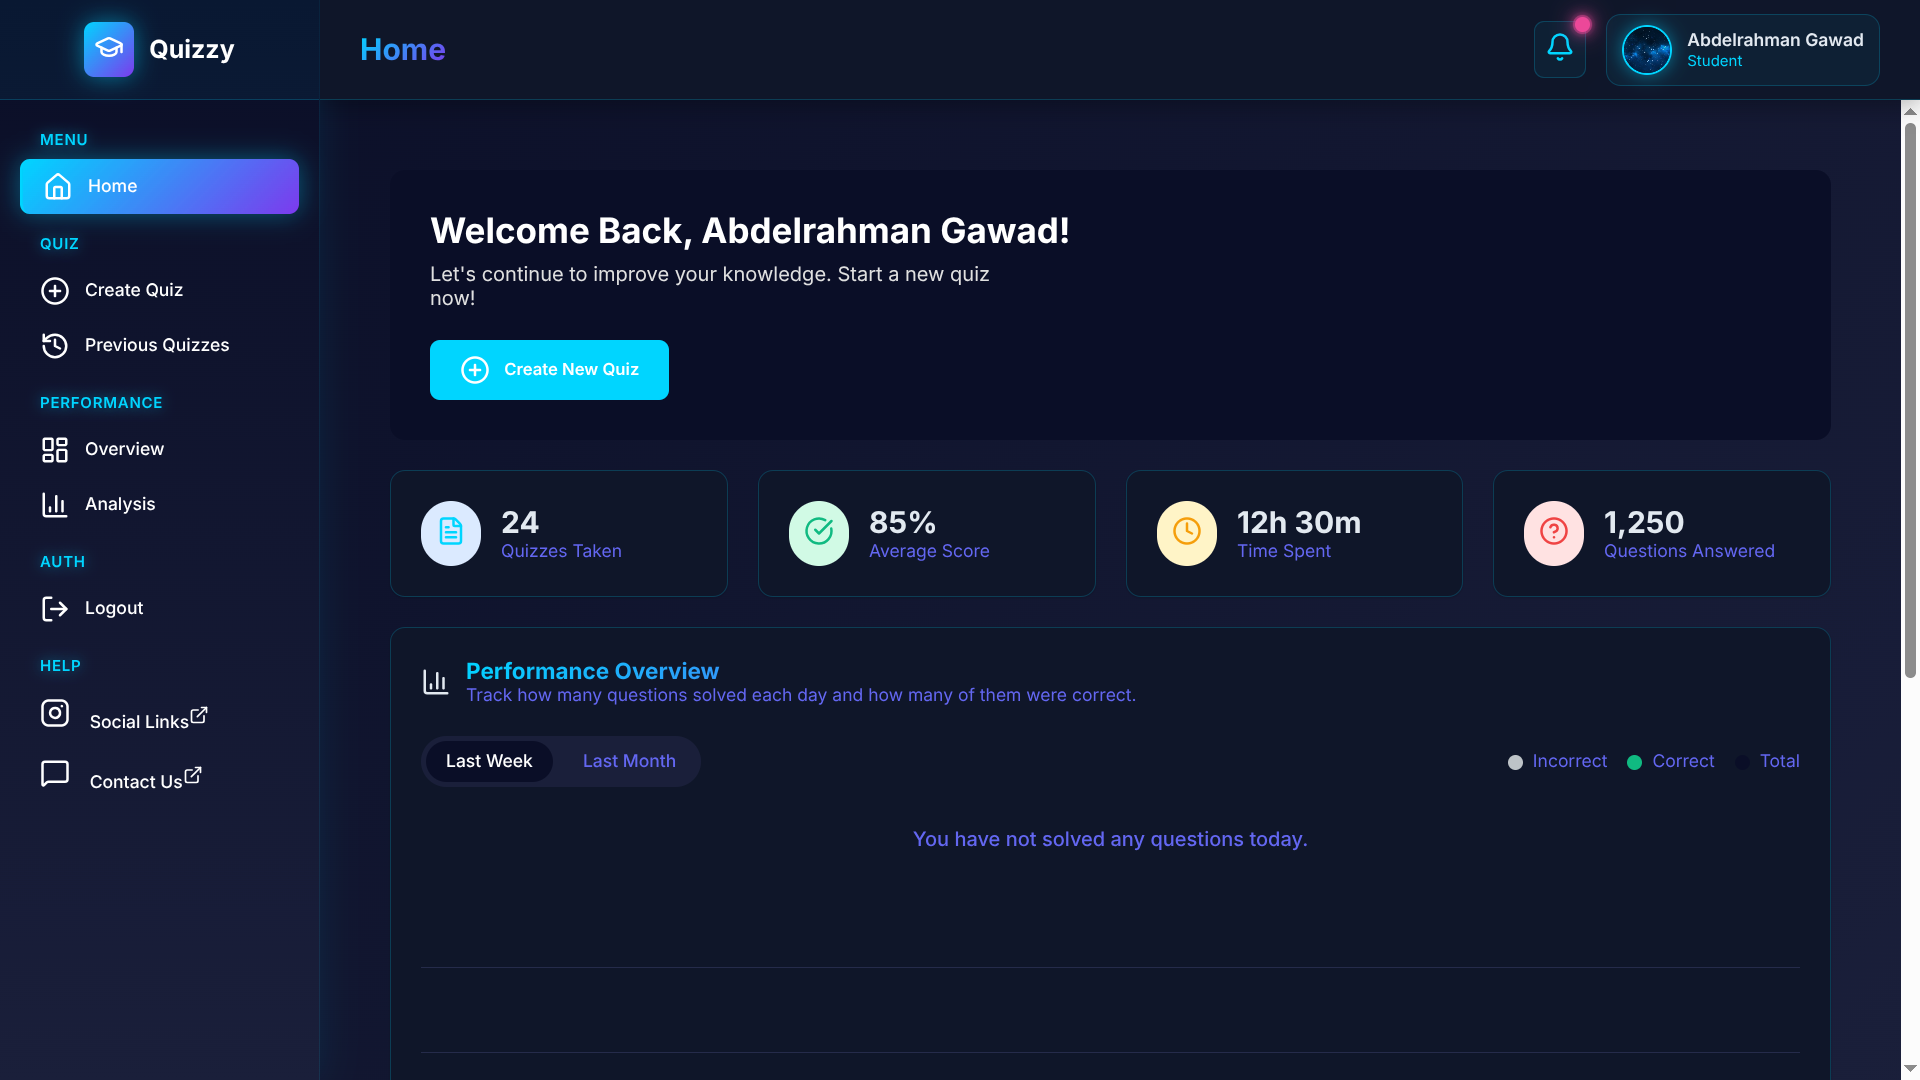
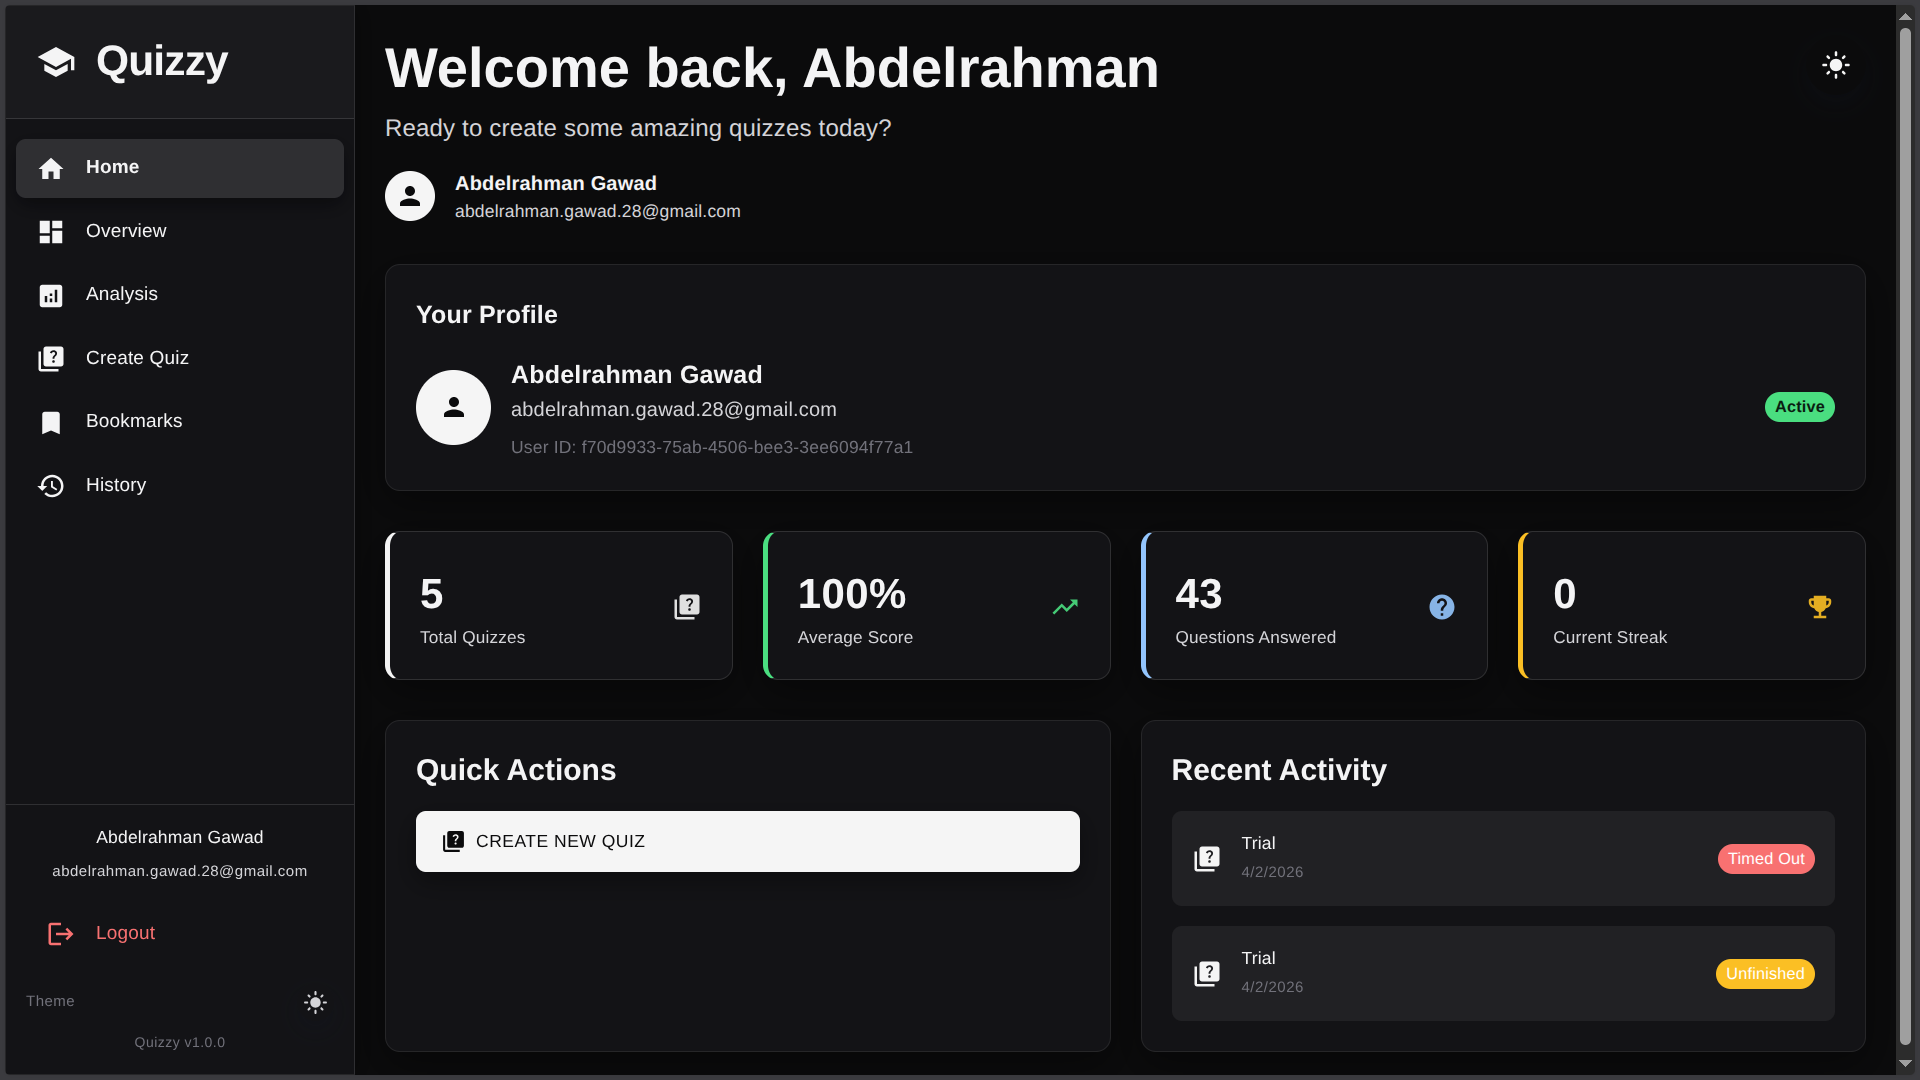
Update portfolio content and rebuild docs

diff --git a/docs/assets/index-D5z4A5I3.js b/docs/assets/index-D5z4A5I3.js
@@ -162,4 +162,4 @@ Error generating stack: `+u.message+`
  *
  * This source code is licensed under the ISC license.
  * See the LICENSE file in the root directory of this source tree.
[2 lines of base64/hex data omitted]

diff --git a/src/components/Projects.tsx b/src/components/Projects.tsx
@@ -57,9 +57,9 @@ export function Projects() {
       description: 'Educational Platform for creating and taking quizzes with real-time feedback and analytics using AI technology.',
       image: '/assets/quizzy.png',
       gradient: 'from-cyan-500 to-pink-500',
-      tags: ['Python', 'React', 'PostgreSQL', 'AWS'],
+      tags: ['Python', 'React', 'PostgreSQL', 'AWS', 'NodeJS', 'Firebase', 'Typerscript', 'Vite'],
       githubUrl: 'https://github.com/Gawad-B/Quizzy',
-      demoUrl: 'https://quizzy.serveblog.',
+      demoUrl: 'https://quizzy.serveblog.net',
     },
   ];
 

diff --git a/docs/index.html b/docs/index.html
@@ -6,7 +6,7 @@
       <link rel="icon" type="image/x-icon" href="/assets/letter-g.ico" />
       <meta name="viewport" content="width=device-width, initial-scale=1.0" />
       <title>Abdelrahman Gawad</title>
-      <script type="module" crossorigin src="/assets/index-CAaUWhRG.js"></script>
+      <script type="module" crossorigin src="/assets/index-D5z4A5I3.js"></script>
       <link rel="stylesheet" crossorigin href="/assets/index-CGpgZWzE.css">
     </head>
 
